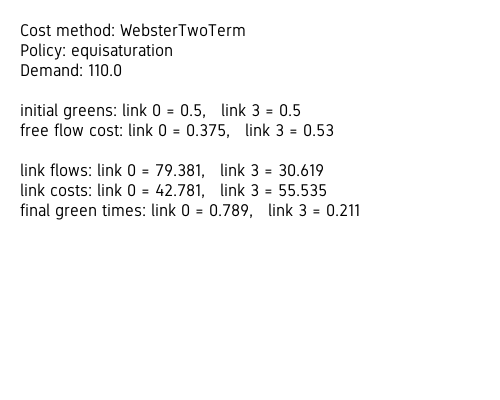
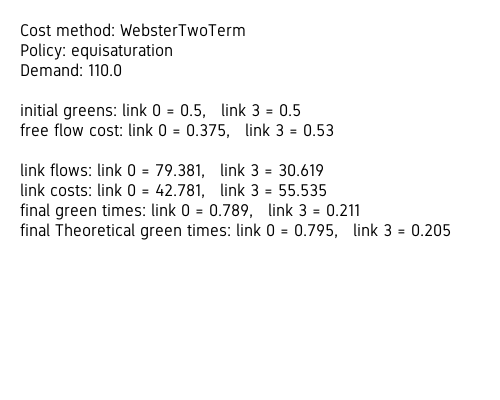
added some output values

Changed region(s): [[0.03, 0.54, 0.9, 0.6]]

diff --git a/ownCode/greenTimes.py b/ownCode/greenTimes.py
@@ -35,15 +35,15 @@ def get_green_times(caps, flows, assignment, method, oldGreenTimesDic, g, ff_tt 
 
             #reply with the right method
             if method == 'equisaturation':
-                greenTimes,diff = equisaturationGreenTimes(intersectionCaps, intersectionLinksFlows, oldGreenTimes, intersectionFf_tt, method)
+                greenTimes,diff, theorGreen = equisaturationGreenTimes(intersectionCaps, intersectionLinksFlows, oldGreenTimes, intersectionFf_tt, method)
             elif method == 'P0':
-                greenTimes,diff = P0policyGreenTimes(intersectionCaps, intersectionLinksFlows, oldGreenTimes, intersectionFf_tt, method)
+                greenTimes,diff, theorGreen = P0policyGreenTimes(intersectionCaps, intersectionLinksFlows, oldGreenTimes, intersectionFf_tt, method)
 
 
             for j in range(len(greenTimes)):
                 greenDic[intersectionLinkIDs[j]] = greenTimes[j]
 
-    return dict(sorted(greenDic.items())), diff
+    return dict(sorted(greenDic.items())), diff, theorGreen
 
 #finding the green times at an iterative way
 #fixed flows are used 
@@ -127,7 +127,7 @@ def equisaturationGreenTimes(caps, flows, initial_greens, ff_tts, method):
     theoreticalGreenTime = theoreticalEquisaturationGreenTimes(caps, flows)
     print('Theoretical Equisaturation Green Times = {}\n'.format(theoreticalGreenTime))
 
-    return greens,np.diff(equality)[0]
+    return greens,np.diff(equality)[0], theoreticalGreenTime
 
 #finding the theoretical equisaturation green times
 def theoreticalEquisaturationGreenTimes(caps, flows):
@@ -177,7 +177,7 @@ def P0policyGreenTimes(caps, flows, initial_greens, ff_tts, method):
     #this is needed to compare the results
     theoreticalGreenTime = theoreticalP0Greens(caps, flows, ff_tts)
     print('Theoretical P0 Green Times = {}\n'.format(theoreticalGreenTime))
-    return greens,np.diff(equality)[0]
+    return greens,np.diff(equality)[0], theoreticalGreenTime
 
 #finding the theoretical P0 green times
 def theoreticalP0Greens(caps, flows, ff_tts):

diff --git a/ownCode/main.py b/ownCode/main.py
@@ -21,7 +21,7 @@ def main():
         #two cost functions at the moment
         # 'bpr' to use the bpr cost function
         # 'WebsterTwoTerm' to use the webster two term delay cost function
-    methodCost = 'WebsterTwoTerm'
+    methodCost = 'bpr'
 
         #two green time policies
         # 'equisaturation' 
@@ -59,7 +59,7 @@ def main():
     print('\nflows: '+str(result.flows))
     print('free flow cost: {}'.format(ff_tt))
     summary_string += "free flow cost: link 0 = {},   link 3 = {}\n\n".format(round(ff_tt[0],3), round(ff_tt[3],3))
-    greens,diff = get_green_times(assignment.internal_network.links.capacity,result.flows,assignment, methodGreen, firstGreen, g, ff_tt)
+    greens,diff, _ = get_green_times(assignment.internal_network.links.capacity,result.flows,assignment, methodGreen, firstGreen, g, ff_tt)
     print('greens: '+ str(greens))
 
 
@@ -94,7 +94,7 @@ def main():
             dos_link_a.append(dos[0])
             dos_link_b.append(dos[3])
 
-        newGreens, diff = get_green_times(assignment.internal_network.links.capacity, newResult.flows, assignment, methodGreen, greens, g, ff_tt)
+        newGreens, diff, theoreticalGreenTime = get_green_times(assignment.internal_network.links.capacity, newResult.flows, assignment, methodGreen, greens, g, ff_tt)
         diff_l.append(diff)
 
         green_link_a.append(newGreens[0])
@@ -116,6 +116,7 @@ def main():
     summary_string += "link flows: link 0 = {},   link 3 = {}\n".format(round(result.flows[0],3), round(result.flows[3],3))
     summary_string += "link costs: link 0 = {},   link 3 = {}\n".format(round(result.link_costs[0],3), round(result.link_costs[3],3))
     summary_string += "final green times: link 0 = {},   link 3 = {}\n".format(round(greens[0],3), round(greens[3],3))
+    summary_string += "final Theoretical green times: link 0 = {},   link 3 = {}\n".format(round(theoreticalGreenTime[0],3), round(theoreticalGreenTime[1],3))
     
 
     graph = show_network(g, flows = result.flows, euclidean=True,return_plot=True)
